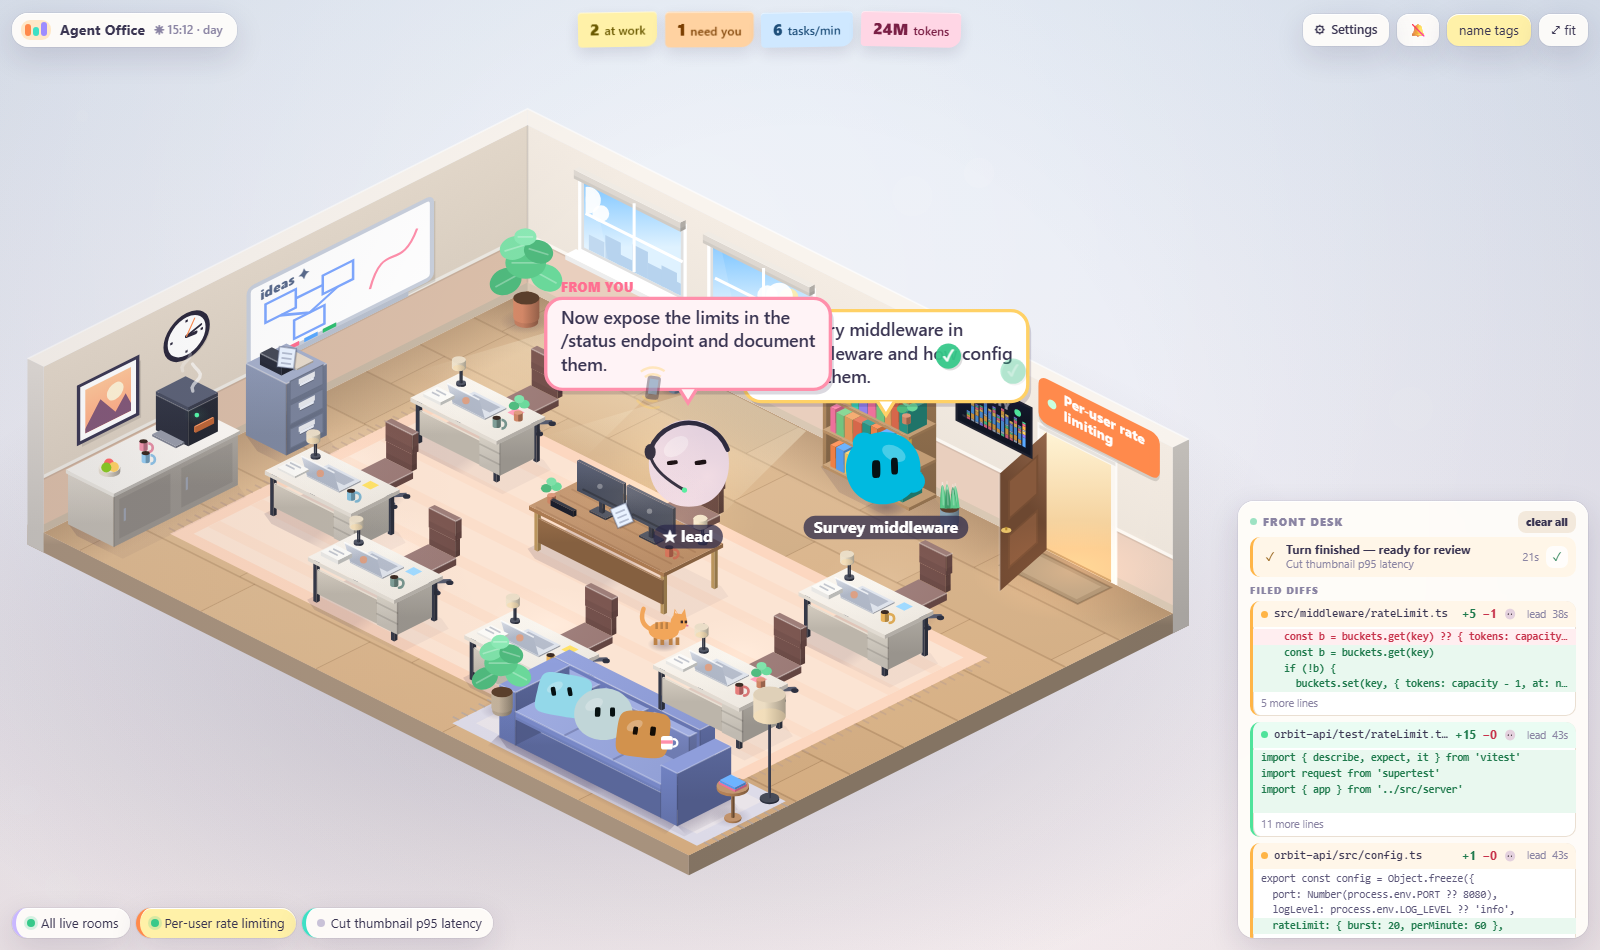
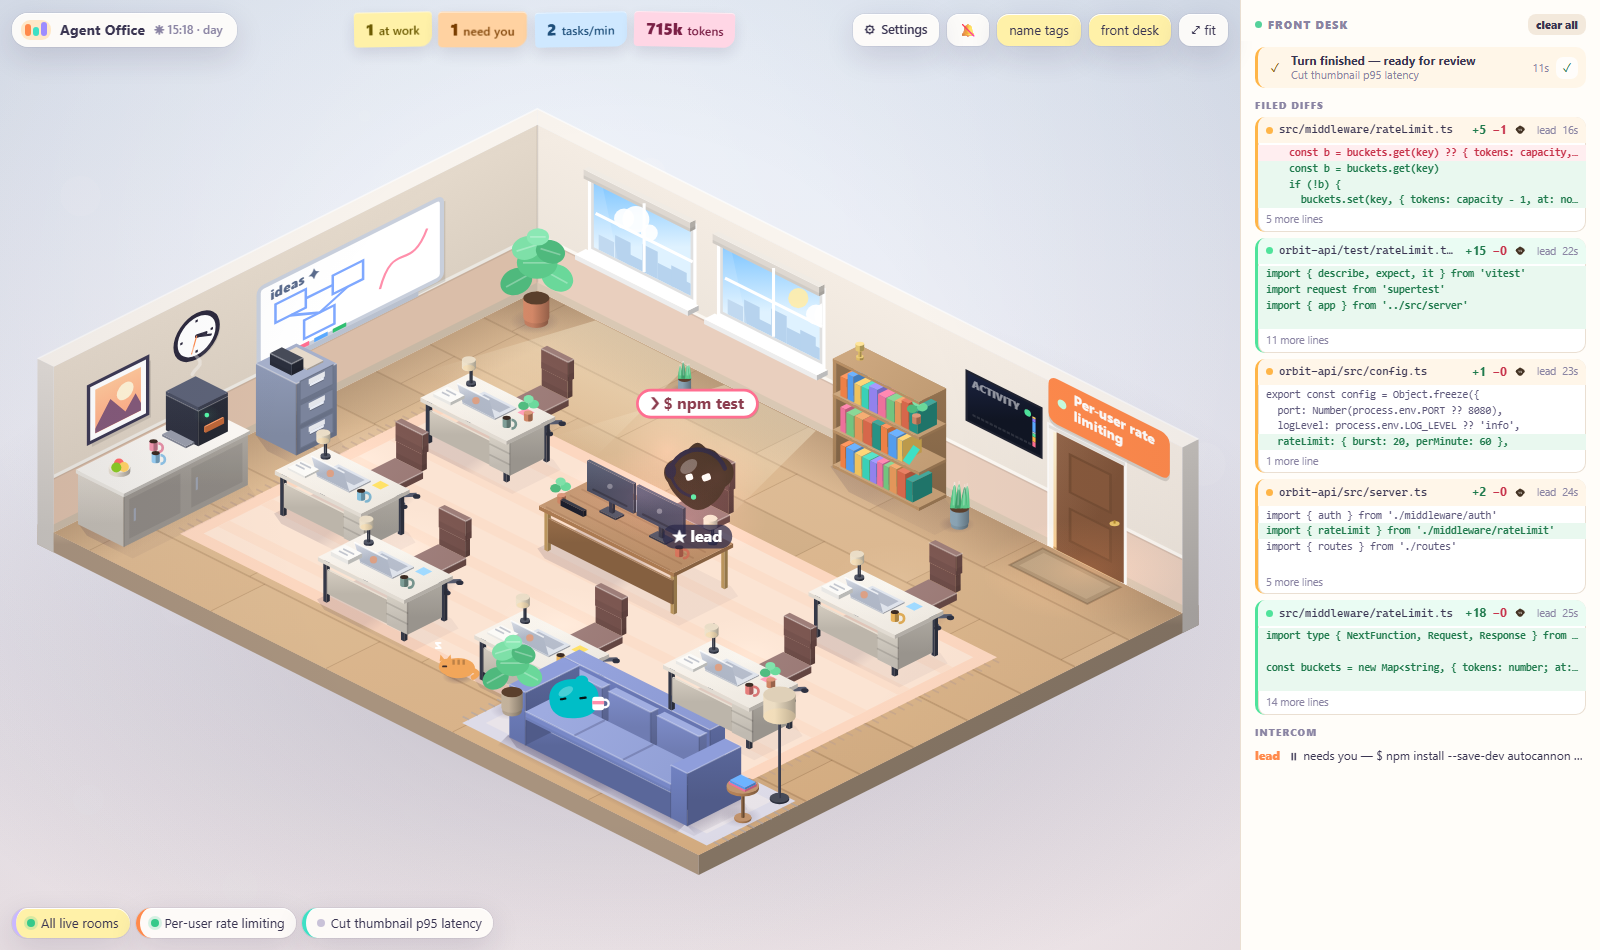
Office: front desk moves into a dedicated sidebar
The floating front desk panel covered the door and the right-hand desks.
It is now a real sidebar column next to the canvas: the office gets the
remaining width, nothing overlaps the room, and the attention queue, filed
diffs and intercom scroll on their own. A top-bar button and the D key
toggle it (persisted as office.sidebar); it hides on narrow viewports.
Filed diffs fly into the sidebar's list. The HUD compacts when the canvas
is narrow so the stat stickies no longer wrap over the brand.

diff --git a/apps/web/src/viz/office/index.ts b/apps/web/src/viz/office/index.ts
@@ -38,6 +38,7 @@ export const office: Visualization = {
   icon: '⌂',
   settings: [
     { key: 'labels', label: 'Name tags', type: 'toggle', default: true, description: 'Show name tags under the blobs. Shortcut: L.' },
+    { key: 'sidebar', label: 'Front desk sidebar', type: 'toggle', default: true, description: 'Attention queue, filed diffs and intercom in a sidebar next to the office. Shortcut: D.' },
     {
       key: 'lighting', label: 'Lighting', type: 'select', default: 'auto',
       description: 'Day and night follow your clock in auto mode. You can also click the clock in the office.',
@@ -51,31 +52,35 @@ const ATTN_ICON: Record<AttentionItem['kind'], string> = { waiting: '⏸', error
 
 const TEMPLATE = `
 <div class="of">
-  <canvas class="of-canvas"></canvas>
-  <header class="of-top">
-    <div class="of-brand"><span class="of-logo"><i></i><i></i><i></i></span><b>Agent Office</b><span class="of-clock"></span></div>
-    <div class="of-stats"></div>
-    <div class="of-actions">
-      <button class="of-btn of-bell" title="Desktop notifications"></button>
-      <button class="of-btn of-labels" title="Name tags (L)">name tags</button>
-      <button class="of-btn of-fit" title="Fit view (F)">⤢ fit</button>
+  <div class="of-stage">
+    <canvas class="of-canvas"></canvas>
+    <header class="of-top">
+      <div class="of-brand"><span class="of-logo"><i></i><i></i><i></i></span><b>Agent Office</b><span class="of-clock"></span></div>
+      <div class="of-stats"></div>
+      <div class="of-actions">
+        <button class="of-btn of-bell" title="Desktop notifications"></button>
+        <button class="of-btn of-labels" title="Name tags (L)">name tags</button>
+        <button class="of-btn of-sidebar" title="Front desk sidebar (D)">front desk</button>
+        <button class="of-btn of-fit" title="Fit view (F)">⤢ fit</button>
+      </div>
+    </header>
+    <nav class="of-rooms"></nav>
+    <div class="of-card" hidden></div>
+    <div class="of-empty" hidden>
+      <div class="of-empty-art">☕</div>
+      <h2>The office is quiet</h2>
+      <p>Start a Claude Code or Codex session and your agents will clock in here.</p>
     </div>
-  </header>
-  <nav class="of-rooms"></nav>
+  </div>
   <aside class="of-desk">
     <div class="of-desk-title"><span class="of-dot"></span>Front desk<span class="of-grow"></span><button class="of-clear" hidden title="Acknowledge everything (X)">clear all</button></div>
     <div class="of-attn"></div>
     <div class="of-allclear">✓ Nothing needs you</div>
     <div class="of-desk-sub" hidden>Filed diffs</div>
     <div class="of-diffs"></div>
+    <div class="of-desk-sub">Intercom</div>
     <ol class="of-feed"></ol>
   </aside>
-  <div class="of-card" hidden></div>
-  <div class="of-empty" hidden>
-    <div class="of-empty-art">☕</div>
-    <h2>The office is quiet</h2>
-    <p>Start a Claude Code or Codex session and your agents will clock in here.</p>
-  </div>
 </div>`
 
 function mount(root: HTMLElement, vctx: VizContext) {
@@ -98,6 +103,17 @@ function mount(root: HTMLElement, vctx: VizContext) {
   }
   ui.labels = settings.get<boolean>('office.labels')
   d.add(settings.on('office.labels', (v) => { ui.labels = v === true }))
+  const of = q('.of')
+  const stage = q('.of-stage')
+  const sidebarBtn = q('.of-sidebar')
+  function applySidebar(): void {
+    const on = settings.get<boolean>('office.sidebar')
+    of.classList.toggle('no-desk', !on)
+    sidebarBtn.classList.toggle('on', on)
+  }
+  applySidebar()
+  d.add(settings.on('office.sidebar', applySidebar))
+  d.listen(sidebarBtn, 'click', () => settings.set('office.sidebar', !settings.get<boolean>('office.sidebar')))
 
   let pending: ObserverEvent[] = []
   let dirty = true
@@ -142,10 +158,8 @@ function mount(root: HTMLElement, vctx: VizContext) {
     if (!b) return
     const w = canvas.clientWidth, hh = canvas.clientHeight
     const padTop = 80, padBottom = w < 760 ? 60 : 70
-    // Leave the front desk panel's column free when there is room for it.
-    const padRight = w >= 1100 && q('.of-desk').offsetParent ? 380 : 0
-    const zoom = clamp(Math.min((w - 40 - padRight) / (b.maxX - b.minX), (hh - padTop - padBottom) / (b.maxY - b.minY)), 0.35, 2.4)
-    const cx = (b.minX + b.maxX) / 2 + padRight / 2 / zoom
+    const zoom = clamp(Math.min((w - 40) / (b.maxX - b.minX), (hh - padTop - padBottom) / (b.maxY - b.minY)), 0.35, 2.4)
+    const cx = (b.minX + b.maxX) / 2
     const cy = (b.minY + b.maxY) / 2 - (padTop - padBottom) / 2 / zoom
     const k = Math.min(1, dt * 3)
     cam.zoom += (zoom - cam.zoom) * k
@@ -247,6 +261,7 @@ function mount(root: HTMLElement, vctx: VizContext) {
       case 'l': case 'L': toggleLabels(); break
       case 'a': case 'A': setView('auto'); break
       case 'x': case 'X': attention.ackAll(); break
+      case 'd': case 'D': settings.set('office.sidebar', !settings.get<boolean>('office.sidebar')); break
       case 'j': case 'k': case 'J': case 'K': {
         const choices = roomChoices()
         const i = Math.max(0, choices.indexOf(ui.view))
@@ -306,8 +321,8 @@ function mount(root: HTMLElement, vctx: VizContext) {
     h('span.of-sticky.pink', null, stats.tokens, 'tokens'),
   )
   const needsSticky = stats.needs.parentElement as HTMLElement
-  needsSticky.title = 'Open the front desk list'
-  d.listen(needsSticky, 'click', () => q('.of-desk').scrollIntoView({ behavior: 'smooth' }))
+  needsSticky.title = 'Show the front desk'
+  d.listen(needsSticky, 'click', () => { settings.set('office.sidebar', true); q('.of-desk').scrollTo({ top: 0, behavior: 'smooth' }) })
 
   function renderTop(now: number): void {
     const world = client.world
@@ -416,10 +431,10 @@ function mount(root: HTMLElement, vctx: VizContext) {
     q('.of-clear').hidden = open.length === 0
     const changes = recentChanges(client.world, 20, model.rooms.keys())
       .filter((c) => c.tool.endedAt !== undefined && (model.filedAt.get(c.key) ?? 0) <= now)
-      .slice(0, 4)
+      .slice(0, 8)
     q('.of-desk-sub').hidden = changes.length === 0
     diffs.sync(changes)
-    feed.sync(intercom.filter((e) => model.rooms.has(e.sessionId)).slice(-6).reverse())
+    feed.sync(intercom.filter((e) => model.rooms.has(e.sessionId)).slice(-10).reverse())
   }
   d.add(attention.subscribe(() => { renderDesk(); renderRooms() }))
 
@@ -512,16 +527,19 @@ function mount(root: HTMLElement, vctx: VizContext) {
 
     const dpr = window.devicePixelRatio || 1
     const w = canvas.clientWidth, hh = canvas.clientHeight
+    // The stage shrinks when the sidebar is open: compact the HUD before it wraps.
+    stage.classList.toggle('narrow', w < 1040)
+    stage.classList.toggle('tiny', w < 720)
     if (canvas.width !== Math.round(w * dpr) || canvas.height !== Math.round(hh * dpr)) {
       canvas.width = Math.round(w * dpr)
       canvas.height = Math.round(hh * dpr)
     }
     if (ui.autoFit) fit(dt)
-    // Filed diffs fly to the front desk panel (or the corner when it is hidden on small screens).
-    const deskEl = q('.of-desk')
-    const dr = deskEl.offsetParent ? deskEl.getBoundingClientRect() : undefined
+    // Filed diffs fly to the sidebar's diff list (or off the right edge when the sidebar is hidden).
+    const diffsEl = q('.of-diffs')
+    const dr = diffsEl.offsetParent ? diffsEl.getBoundingClientRect() : undefined
     const cr = canvas.getBoundingClientRect()
-    const tx = dr ? dr.left - cr.left + 28 : w - 30, ty = dr ? dr.top - cr.top + 40 : hh - 30
+    const tx = dr ? dr.left - cr.left + 30 : w + 40, ty = dr ? clamp(dr.top - cr.top + 24, 60, hh - 40) : hh / 2
     const fileTarget = { x: (tx - w / 2) / cam.zoom + cam.x, y: (ty - hh / 2) / cam.zoom + cam.y }
     renderOffice(ctx, model, world, cam, w, hh, dpr, now, { hovered: ui.hovered, selected: ui.selected?.char, labels: ui.labels, fileTarget })
     labelsBtn.classList.toggle('on', ui.labels)

diff --git a/apps/web/src/viz/office/office.css b/apps/web/src/viz/office/office.css
@@ -5,14 +5,17 @@
   --of-card: #fffdf9;
   --of-line: #eadfd2;
   --of-shadow: 0 10px 30px #2a1f4a24, 0 1px 0 #ffffff inset, 0 0 0 1px #2a1f4a0f;
-  position: absolute; inset: 0; overflow: hidden; font: 13px/1.4 var(--of-font); color: var(--of-ink);
+  position: absolute; inset: 0; overflow: hidden; font: 13px/1.4 var(--of-font); color: var(--of-ink); display: flex;
 }
+.of-stage { position: relative; flex: 1; min-width: 0; height: 100%; }
 .of-canvas { position: absolute; inset: 0; width: 100%; height: 100%; display: block; cursor: grab; touch-action: none; }
 .of-canvas.dragging { cursor: grabbing; }
 .of button { font: inherit; cursor: pointer; }
 .of-muted { color: var(--of-muted); }
 
-.of-top { position: absolute; top: 12px; left: 12px; right: 12px; display: flex; align-items: center; gap: 12px; pointer-events: none; }
+.of-top { position: absolute; top: 12px; left: 12px; right: 12px; display: flex; align-items: center; gap: 12px; pointer-events: none; flex-wrap: nowrap; }
+.of-stats { flex-wrap: nowrap; }
+.of-actions { flex: none; }
 .of-top > * { pointer-events: auto; }
 .of-brand {
   display: flex; align-items: center; gap: 9px; padding: 7px 14px 7px 9px; border-radius: 16px;
@@ -45,7 +48,7 @@
 .of-btn.on { background: #fff1a8; }
 .of .oadt-settings-button { background: #fffdf9e8; backdrop-filter: blur(12px); color: var(--of-ink); border: 0; box-shadow: var(--of-shadow); font-weight: 600; padding: 7px 12px; border-radius: 12px; }
 
-.of-rooms { position: absolute; left: 12px; bottom: 12px; display: flex; gap: 6px; flex-wrap: wrap; max-width: calc(100% - 380px); }
+.of-rooms { position: absolute; left: 12px; bottom: 12px; display: flex; gap: 6px; flex-wrap: wrap; max-width: calc(100% - 24px); }
 .of-room {
   border: 0; display: inline-flex; align-items: center; gap: 6px; padding: 6px 11px; border-radius: 999px; font-size: 12px; font-weight: 600;
   background: #fffdf9e6; backdrop-filter: blur(12px); color: var(--of-ink); box-shadow: var(--of-shadow); border-left: 4px solid var(--hc, #c9b8ff);
@@ -58,10 +61,11 @@
 .of-room-dot.waiting { background: #ffb547; box-shadow: 0 0 0 3px #ffb54755; }
 
 .of-desk {
-  position: absolute; right: 12px; bottom: 12px; width: 350px; max-height: 46vh; overflow: hidden auto; padding: 10px 12px 8px;
-  background: #fffdf9ee; backdrop-filter: blur(14px); border-radius: 16px; box-shadow: var(--of-shadow);
+  flex: none; width: 360px; height: 100%; overflow: hidden auto; padding: 14px 14px 12px; box-sizing: border-box;
+  background: #fffdf9; border-left: 1px solid var(--of-line); box-shadow: -10px 0 28px #2a1f4a10;
 }
-.of-desk-title { font-weight: 800; font-size: 11px; text-transform: uppercase; letter-spacing: .1em; color: var(--of-muted); display: flex; align-items: center; gap: 6px; margin-bottom: 4px; }
+.of.no-desk .of-desk { display: none; }
+.of-desk-title { font-weight: 800; font-size: 11px; text-transform: uppercase; letter-spacing: .1em; color: var(--of-muted); display: flex; align-items: center; gap: 6px; position: sticky; top: -14px; margin: -14px -14px 6px; padding: 14px 14px 6px; background: #fffdf9; z-index: 1; }
 .of-grow { flex: 1; }
 .of-clear { border: 0; background: #f3e9dc; color: var(--of-ink); font-size: 10.5px; font-weight: 700; padding: 3px 8px; border-radius: 8px; text-transform: none; letter-spacing: 0; }
 .of-dot { width: 7px; height: 7px; border-radius: 50%; background: #36c98a; animation: of-blink 1.6s infinite; }
@@ -84,7 +88,7 @@
 .of-attn-age { color: var(--of-muted); font-size: 11px; font-variant-numeric: tabular-nums; }
 .of-ack { border: 0; background: #ffffffcc; width: 22px; height: 22px; border-radius: 7px; color: #1f7a4d; font-weight: 800; }
 .of-ack:hover { background: #dff5e8; }
-.of-desk-sub { font-weight: 800; font-size: 10px; text-transform: uppercase; letter-spacing: .1em; color: var(--of-muted); margin: 4px 0 4px; }
+.of-desk-sub { font-weight: 800; font-size: 10px; text-transform: uppercase; letter-spacing: .1em; color: var(--of-muted); margin: 10px 0 5px; }
 .of-diffs { display: flex; flex-direction: column; gap: 6px; }
 .of-diffs:not(:empty) { margin-bottom: 8px; }
 .of-diff {
@@ -159,9 +163,15 @@
 .of-empty h2 { margin: 8px 0 4px; }
 .of-empty p { margin: 0; color: var(--of-muted); }
 
+/* Compact HUD when the canvas is narrow (sidebar open, small window). */
+.of-stage.narrow .of-brand b, .of-stage.narrow .of-sticky.blue, .of-stage.narrow .of-sticky.pink { display: none; }
+.of-stage.narrow .of-top { gap: 8px; }
+.of-stage.tiny .of-stats { display: none; }
+.of-stage.tiny .of-labels, .of-stage.tiny .of-fit { display: none; }
+@media (max-width: 900px) {
+  .of-desk, .of-sidebar { display: none; }
+}
 @media (max-width: 760px) {
   .of-stats { display: none; }
-  .of-desk { display: none; }
-  .of-rooms { max-width: calc(100% - 24px); }
   .of-brand b { display: none; }
 }

diff --git a/docs/VISUALIZATIONS.md b/docs/VISUALIZATIONS.md
@@ -87,10 +87,11 @@ meet it; the expression and body motion follow the shared activity model.
 Click any blob for its profile card: mood, role, model, current task, recent
 tools and the files it just changed, and for the lead the session's turns,
 cost and context fill. Drag to pan and scroll to zoom. `F` fits the view, `L`
-toggles name tags, `A` follows all live rooms, `J`/`K` step through rooms and
-`X` acknowledges everything.
+toggles name tags, `D` toggles the front desk sidebar, `A` follows all live
+rooms, `J`/`K` step through rooms and `X` acknowledges everything.
 
-The **front desk** panel shares Mission Control's attention queue: approvals,
+The **front desk** sidebar (toggle with `D` or the top-bar button; it never
+covers the office) shares Mission Control's attention queue: approvals,
 finished turns, failure streaks, nearly full context and long-running tools,
 each with a ✓ to acknowledge. Click an item to jump to that room and agent.
 Under it, **Filed diffs** holds the latest changes from the rooms on screen,
